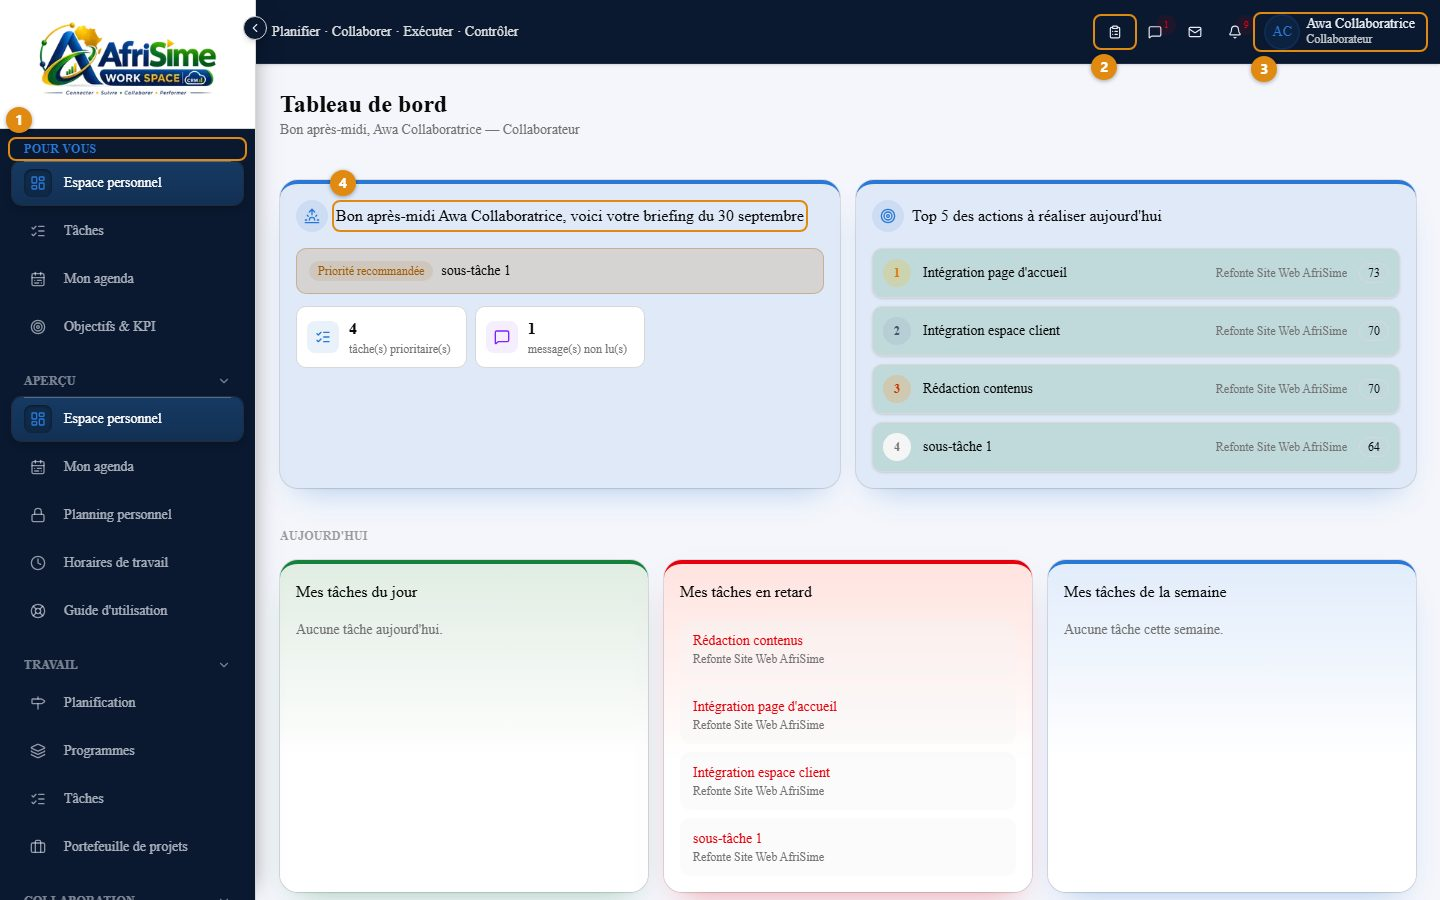
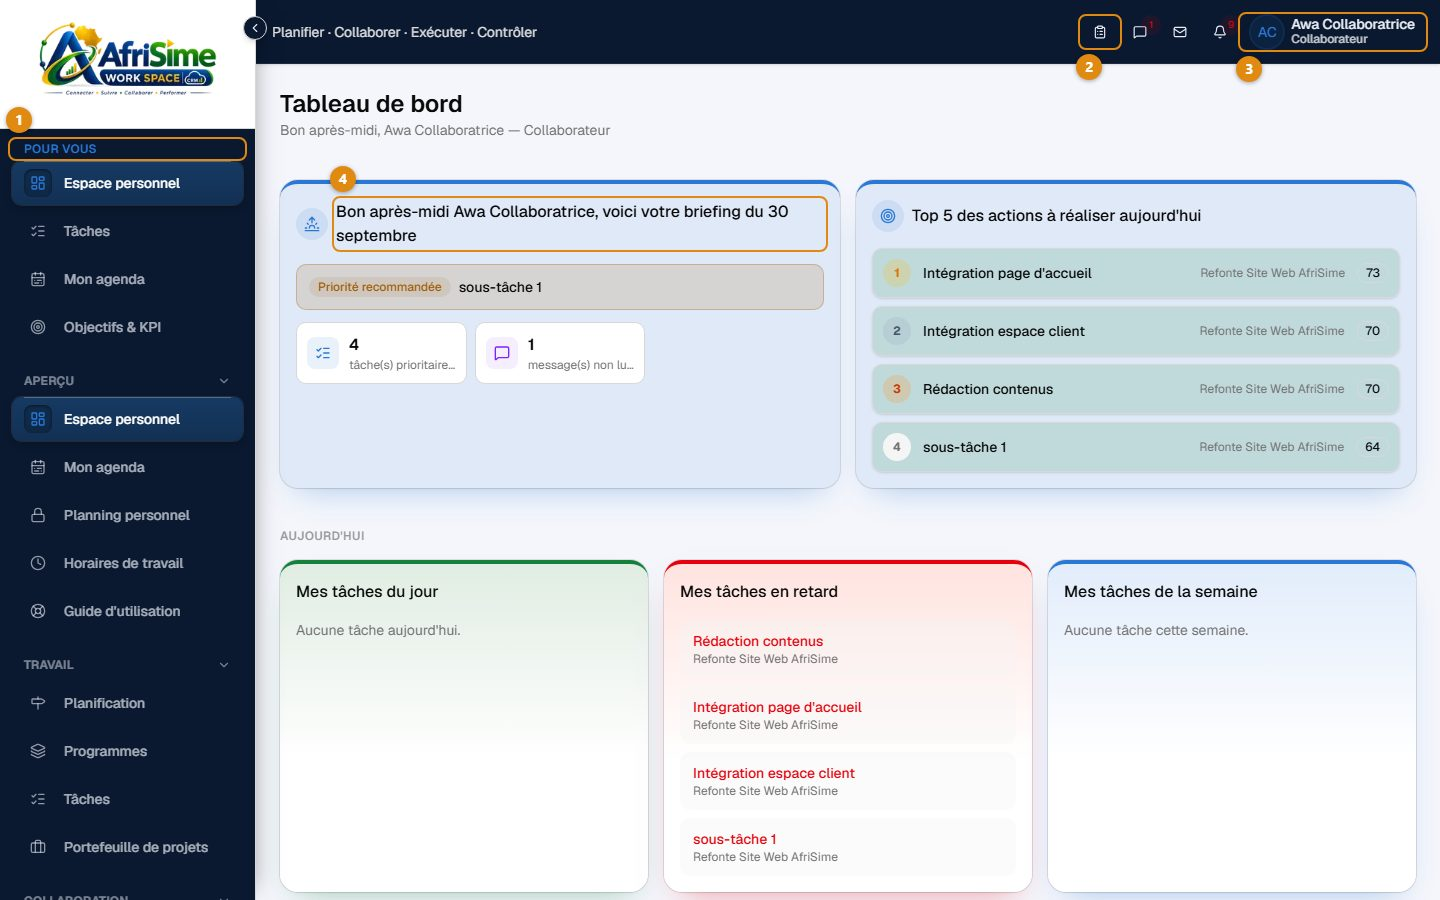
fix(theme): police Geist appliquee a toute l'app
--font-sans pointait sur lui-meme dans @theme inline depuis le scaffold :
valeur invalide, toute l'app (interne, connexion, portail) retombait sur
la police serif par defaut du navigateur. Pointe desormais sur
--font-geist-sans (chargee dans app/layout.tsx), repli systeme sans-serif.
Captures du guide regenerees avec la bonne police.

diff --git a/src/app/globals.css b/src/app/globals.css
@@ -7,7 +7,10 @@
 @theme inline {
   --color-background: var(--background);
   --color-foreground: var(--foreground);
-  --font-sans: var(--font-sans);
+  /* Pointait sur lui-meme (var(--font-sans)) depuis le scaffold : valeur
+     invalide, toute l'app retombait sur la police serif par defaut du
+     navigateur au lieu de Geist (chargee dans app/layout.tsx). */
+  --font-sans: var(--font-geist-sans), ui-sans-serif, system-ui, sans-serif;
   --font-mono: var(--font-geist-mono);
   --font-heading: var(--font-sans);
   --color-sidebar-ring: var(--sidebar-ring);
